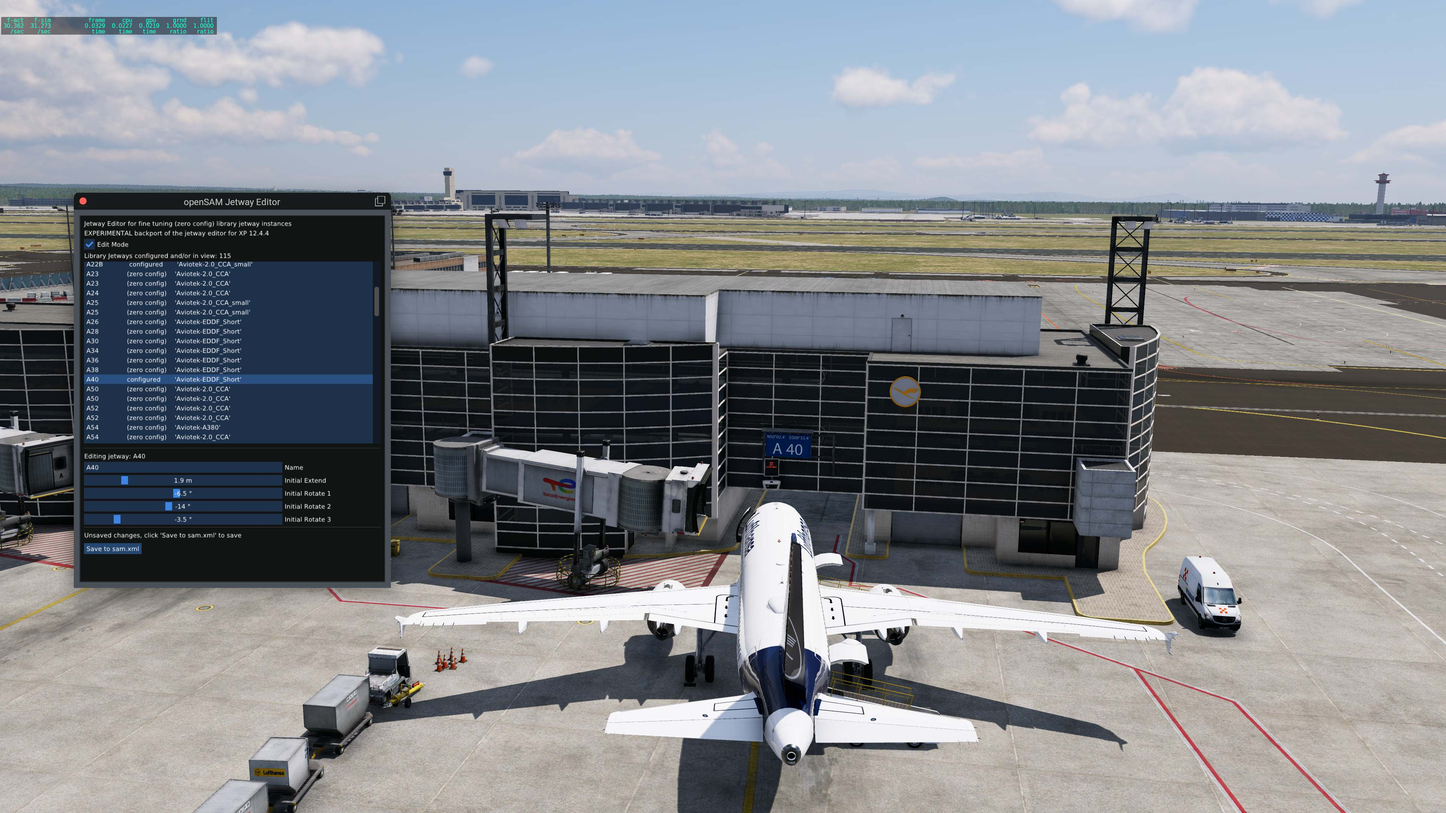
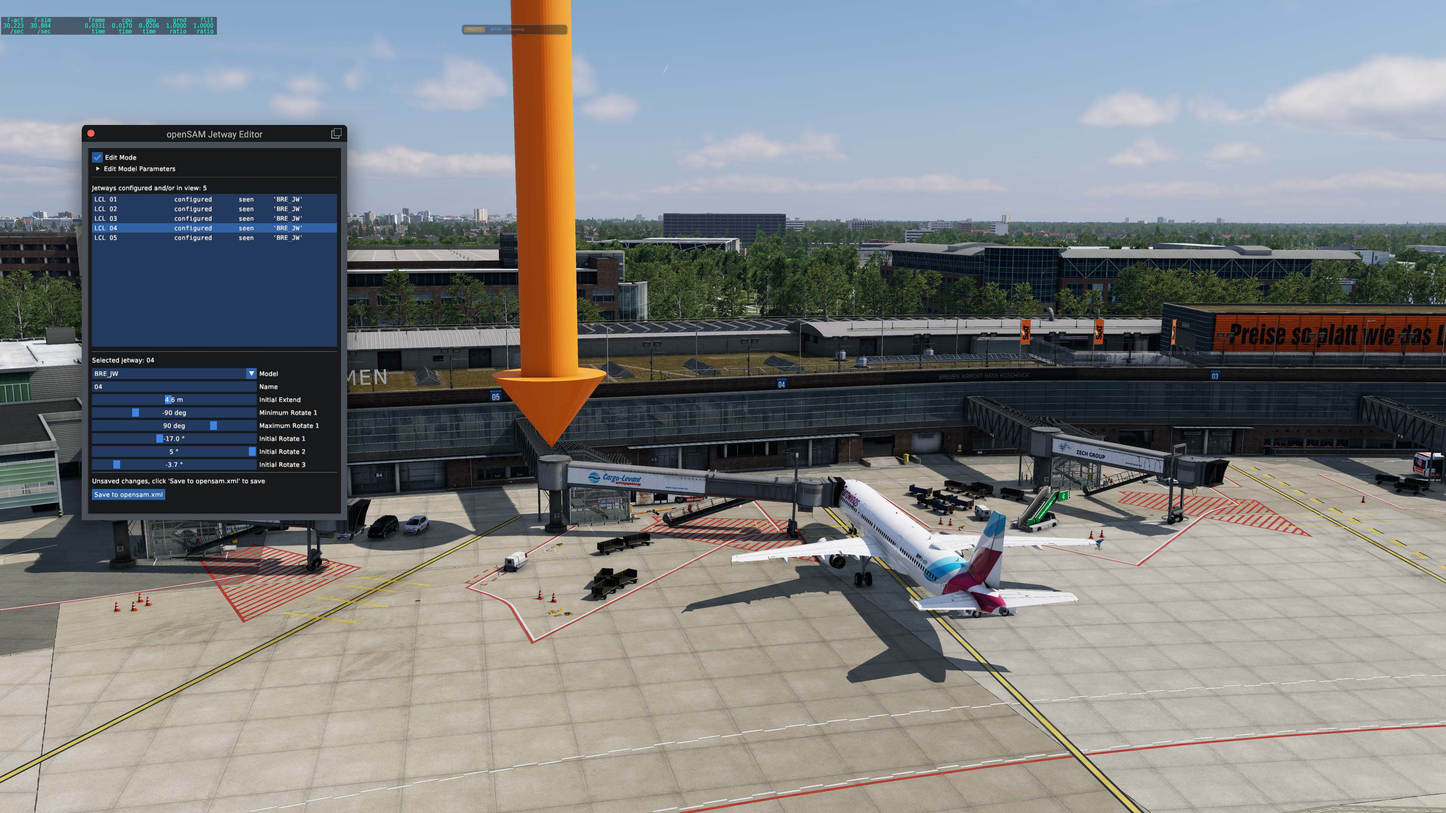
update README

diff --git a/README.md b/README.md
@@ -95,6 +95,9 @@ The default VDGS for standard sceneries can be selected in the menu.
 Per default all stands with jetways get a VDGS and all others get a Marshaller. This can easily be changed with the UI for the active stand.
 ![Image](images/AutoDGS-selected_gate.jpg)
 
+openSAM can manage standard XP12 jetways as well including full multiplayer support, i.e. that includes all gateway airports.
+![Image](images/MP-default_jetways.jpg)
+
 ### Airport Editor
 A full customization of all DGS be done with the Airport Editor:
 ![Image](images/editor_1.jpg)
@@ -124,7 +127,7 @@ openSAM supports
  - Virtual Air Traffic (VAT)
  - Traffic Global XP (TGXP)
  - LiveTraffic
-
+ 
 Set up your multiplayer environment as needed (e.g. connect to Vatsim and/or enable/disable MP plugins).\
 Then select "Toggle Multiplayer Support" in openSAM's menu.\
 If xPilot is connected to Vatsim that takes precedence over other installed multplayer plugins.\
@@ -251,11 +254,8 @@ in the current directory and uses the specified set name for datarefs.\
 
 **Note**: all collected library jetways share a single global namespace. Hence be specific with your set names e.g. include your studio name.
 
-## Jetway Editor for library jetway instances
-You can fine tune library jetway instances, e.g. if wheels should be parked in marked areas or other setups can can be
-achieved with zero config.
-
-Tweak these instances as needed with *Jetway Editor*.
+## Jetway Editor
+Full customization of scenery-local jetway models and and placement of all jetways can be done with *Jetway Editor*.
 
 ![Image](images/jw-editor.jpg)
 
